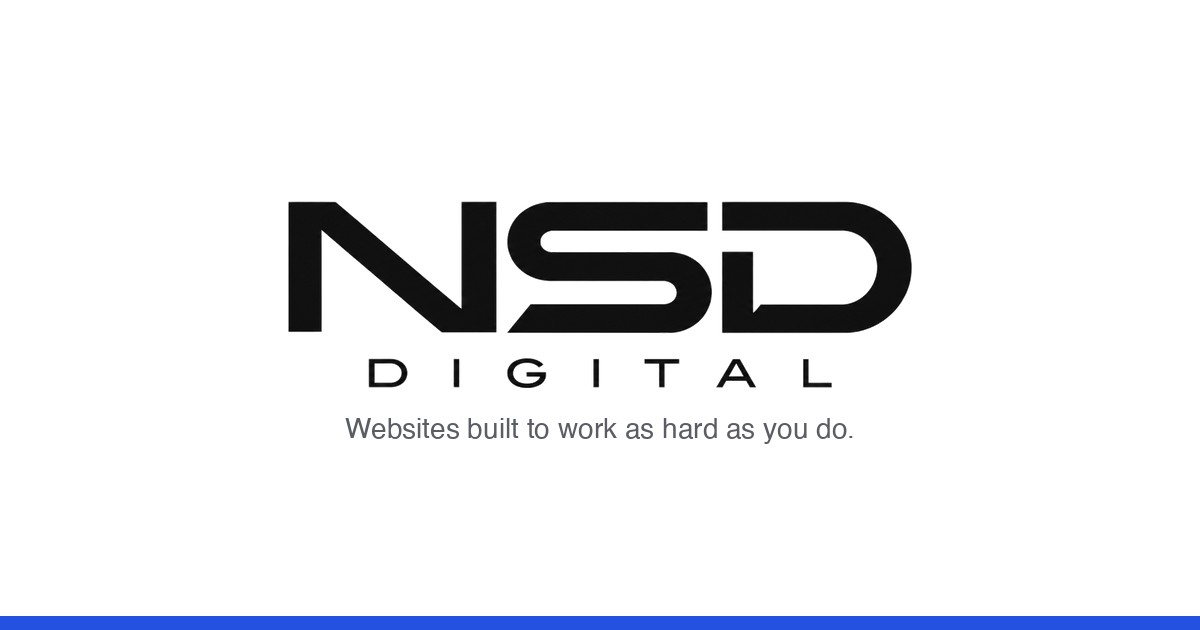
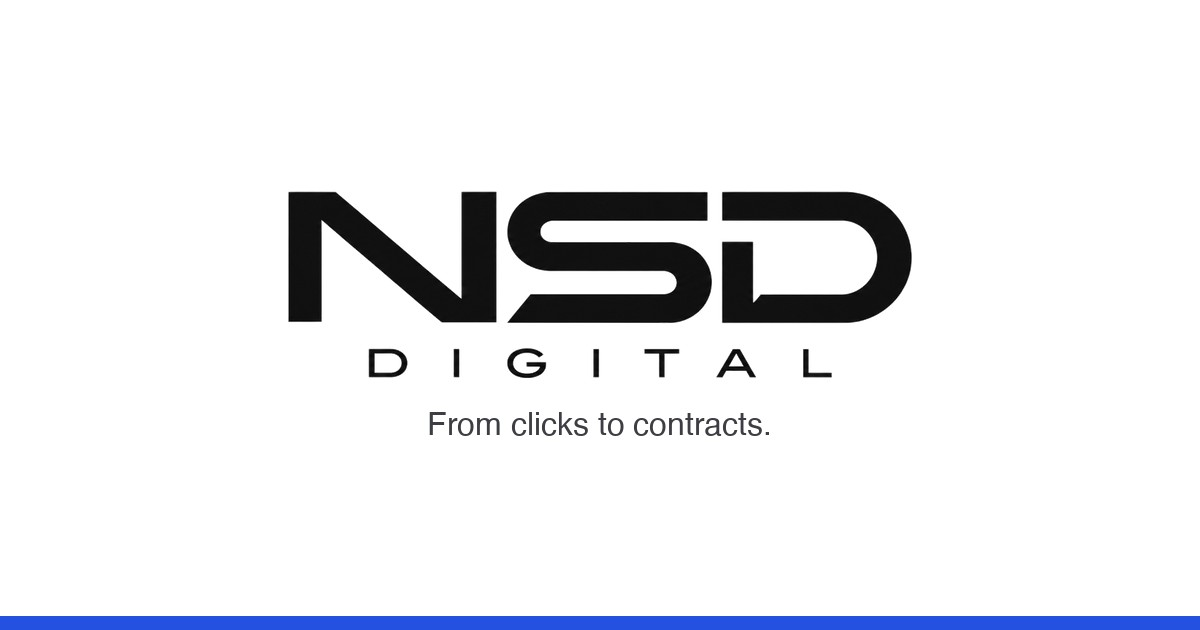
Update link preview title and cover image to From Clicks to Contracts

diff --git a/index.html b/index.html
@@ -14,7 +14,7 @@
 <!-- Open Graph -->
 <meta property="og:type" content="website">
 <meta property="og:site_name" content="NSD Digital">
-<meta property="og:title" content="NSD Digital — Websites That Make People Stay, Not Bounce">
+<meta property="og:title" content="NSD Digital — From Clicks to Contracts">
 <meta property="og:description" content="Custom websites for contractors starting at $799, with optional 1-year service plans, backed by our 30-day launch warranty.">
 <meta property="og:url" content="https://nsd-digital.com/">
 <meta property="og:image" content="https://nsd-digital.com/og-cover.jpg">
@@ -23,7 +23,7 @@
 
 <!-- Twitter Card -->
 <meta name="twitter:card" content="summary_large_image">
-<meta name="twitter:title" content="NSD Digital — Websites That Make People Stay, Not Bounce">
+<meta name="twitter:title" content="NSD Digital — From Clicks to Contracts">
 <meta name="twitter:description" content="Custom websites for contractors starting at $799, with optional 1-year service plans, backed by our 30-day launch warranty.">
 <meta name="twitter:image" content="https://nsd-digital.com/og-cover.jpg">
 
